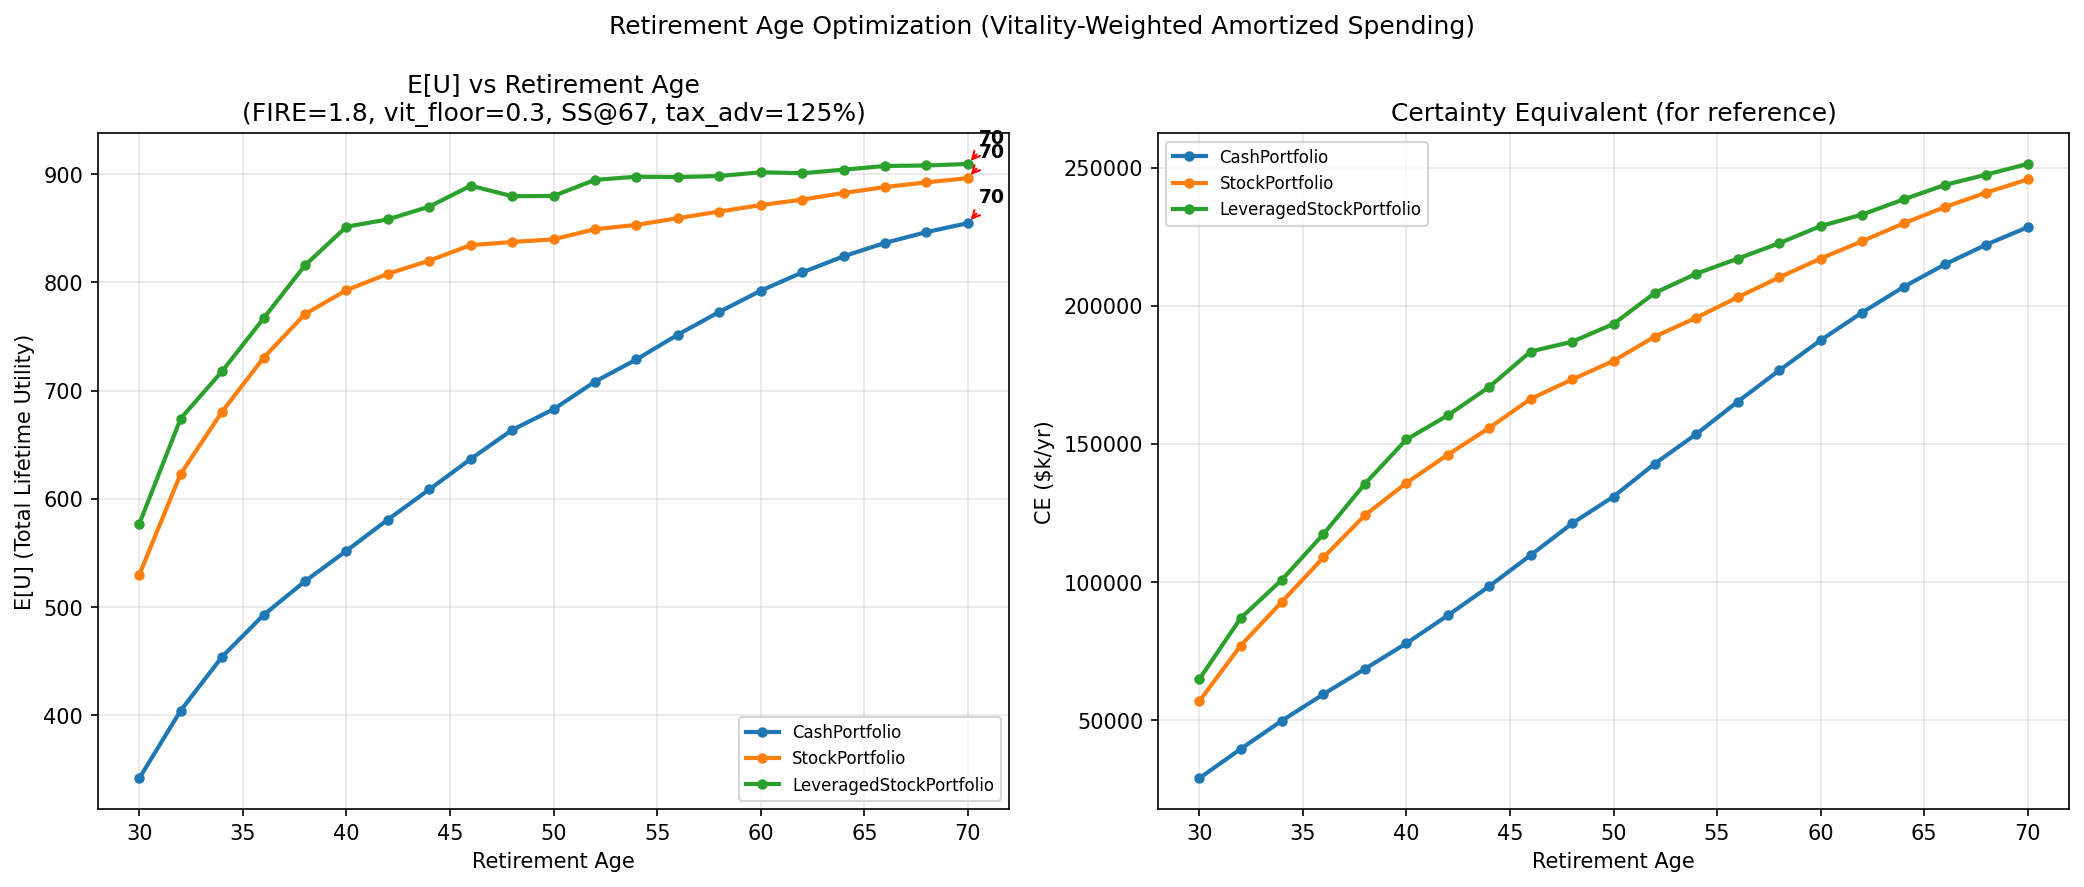
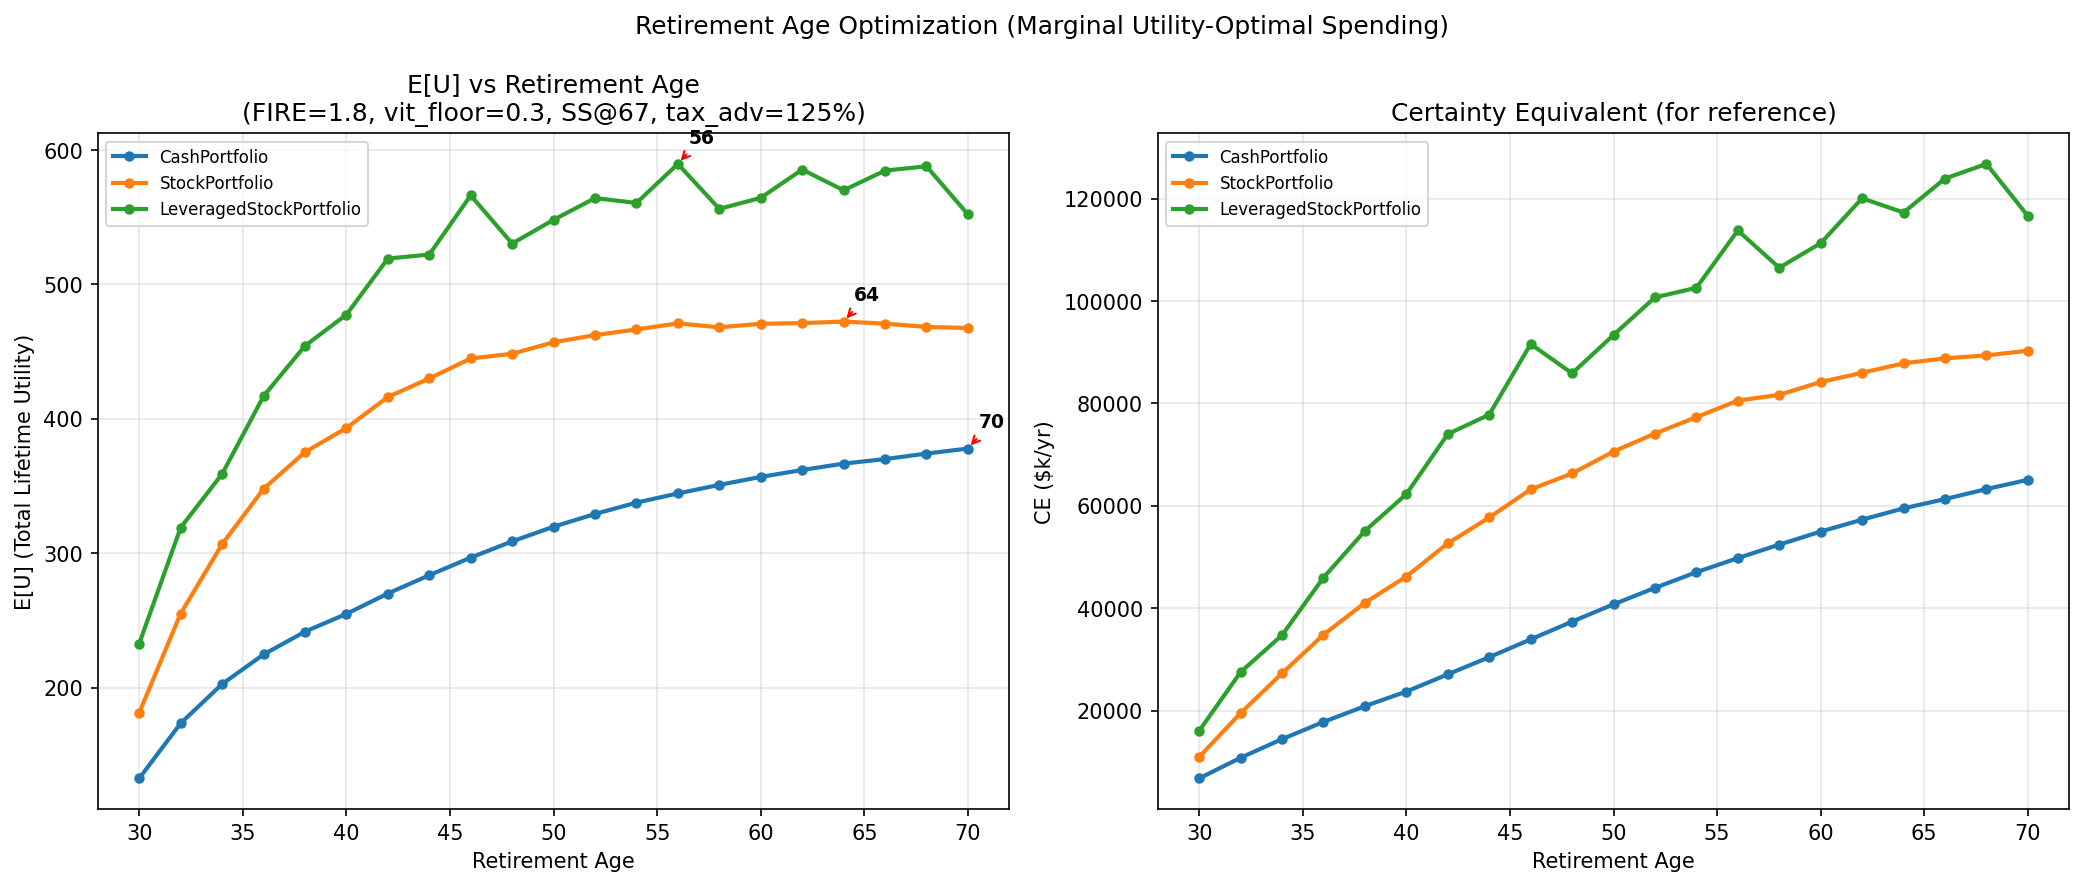
Replace vitality-weighted spending with Euler equation MU-optimal allocation
Add MarginalUtilitySpending: derives consumption from ∂U/∂c, equalizing
marginal utility per PV-dollar across ages. Uses c_t ∝ (w_t/d^t)^γ where
γ = 1/(1-α) is the EIS, with log-space computation for numerical stability.

Key differences from VitalityAmortizedSpending:
- Includes β (time preference) and FIRE multiplier in allocation weights
- Nonlinear amplification via γ ≈ 2.86 (for α=0.65)
- Spending rule is now consistent with the utility scorer

Regenerate all advice charts with the new spending strategy.

https://claude.ai/code/session_01236Zney1KiVQQhg5QPK66n

diff --git a/generate_advice.py b/generate_advice.py
@@ -15,6 +15,7 @@ from simulator import run_simulation
 from spending import (
     AmortizedSpending,
     FixedSpending,
+    MarginalUtilitySpending,
     VitalityAmortizedSpending,
 )
 from sweeps import (
@@ -63,7 +64,7 @@ def fmt_u(u: float) -> str:
 # -----------------------------------------------------------------------
 print("\n[1/7] Running retirement age sweep (300 sims/age)...")
 
-spending_rule = VitalityAmortizedSpending()
+spending_rule = MarginalUtilitySpending()
 ret_results = run_retirement_sweep(config, spending_rule, n_simulations=300)
 
 # Find optimal age per portfolio (by max mean utility — monotonic with CE)
@@ -105,7 +106,7 @@ ax2.set_title('Certainty Equivalent (for reference)')
 ax2.legend(fontsize=8)
 ax2.grid(True, alpha=0.3)
 
-fig.suptitle('Retirement Age Optimization (Vitality-Weighted Amortized Spending)')
+fig.suptitle('Retirement Age Optimization (Marginal Utility-Optimal Spending)')
 plt.tight_layout()
 fig.savefig(os.path.join(ASSETS, '1_retirement_sweep.png'), dpi=150, bbox_inches='tight')
 plt.close(fig)
@@ -122,7 +123,7 @@ for name, data in ret_results.items():
 # -----------------------------------------------------------------------
 print("\n[2/7] Running leverage sweep (300 sims/level)...")
 
-lev_spending = VitalityAmortizedSpending()
+lev_spending = MarginalUtilitySpending()
 scorer = CRRAUtility.from_config(config)
 lev_results = run_leverage_sweep(config, lev_spending, scorer,
                                   leverage_range=[1.0, 1.25, 1.5, 1.75, 2.0, 2.25, 2.5, 2.75, 3.0, 3.5, 4.0],
@@ -230,14 +231,14 @@ sweep_2d = run_2d_sweep(
     config,
     'retirement_age', [float(a) for a in range(30, 71, 10)],
     'leverage_ratio', list(np.linspace(1.0, 4.0, 7)),
-    spending_rule=VitalityAmortizedSpending(),
+    spending_rule=MarginalUtilitySpending(),
     n_simulations=20,
     metric='mean_utility',
     portfolio_idx=2,
 )
 
 print("\n  Running Adam optimizer...")
-adam_path = adam_optimize(config, VitalityAmortizedSpending(), n_sims=100, steps=25)
+adam_path = adam_optimize(config, MarginalUtilitySpending(), n_sims=100, steps=25)
 
 X, Y = np.meshgrid(sweep_2d['param2_range'], sweep_2d['param1_range'])
 grid = sweep_2d['grid']
@@ -327,7 +328,7 @@ print(f"\n  Adam optimum: retire@{int(round(final_ret))}, leverage={final_lev:.1
 # 4. Monte Carlo at optimal retirement age — all portfolios
 # -----------------------------------------------------------------------
 opt_retire = ret_results.get('LeveragedStockPortfolio', {}).get('optimal_age', 42)
-mc_spending = VitalityAmortizedSpending()
+mc_spending = MarginalUtilitySpending()
 
 print(f"\n[4/7] Monte Carlo at retire@{opt_retire} (300 sims)...")
 
@@ -374,7 +375,7 @@ for col, (name, data) in enumerate(show_portfolios.items()):
     if col == 0:
         ax_sp.set_ylabel('Annual Spending ($k/yr)')
 
-fig.suptitle(f'Monte Carlo: Retire@{opt_retire}, Vitality-Weighted Spending', fontsize=13)
+fig.suptitle(f'Monte Carlo: Retire@{opt_retire}, MU-Optimal Spending', fontsize=13)
 plt.tight_layout()
 fig.savefig(os.path.join(ASSETS, '4_monte_carlo.png'), dpi=150, bbox_inches='tight')
 plt.close(fig)
@@ -484,7 +485,7 @@ plt.close(fig)
 print("\n[7/7] Running E[U] distributions across leverage levels (300 sims each)...")
 
 pdf_leverages = [1.0, 1.5, 2.0, 3.0, 4.0]
-pdf_spending = VitalityAmortizedSpending()
+pdf_spending = MarginalUtilitySpending()
 pdf_seeds = _generate_seeds(300)
 
 leverage_utilities = {}

diff --git a/spending.py b/spending.py
@@ -3,6 +3,7 @@
 
 from __future__ import annotations
 
+import math
 from abc import ABC, abstractmethod
 from dataclasses import dataclass
 from typing import List, Tuple
@@ -186,3 +187,74 @@ class VitalityAmortizedSpending(SpendingRule):
             regular = max(0.0, total * v_now / v_annuity)
 
         return regular + ctx.one_time_expense
+
+
+class MarginalUtilitySpending(SpendingRule):
+    """Euler equation-optimal spending: equalize marginal utility per PV-dollar across ages.
+
+    For CRRA utility V = Σ w_t · c_t^α, the derivative wrt consumption is:
+
+        ∂V/∂c_t = w_t · α · c_t^(α-1)
+
+    where w_t = β^t · vitality(age_t) · fire_multiplier_t.
+
+    The budget constraint discounts spending at the financial rate d^t.
+    Optimal allocation equalizes marginal utility per present-value dollar:
+
+        ∂V/∂c_t / d^t = λ    for all t
+
+    Solving: c_t ∝ (w_t / d^t)^γ  where γ = 1/(1-α) is the elasticity of
+    intertemporal substitution (EIS).
+
+    Compared to VitalityAmortizedSpending (c ∝ vitality), this:
+    1. Includes time preference (β) and FIRE multiplier in allocation weights
+    2. Nonlinearly amplifies weight differences via γ (higher CRRA curvature
+       means more aggressive reallocation toward high-utility years)
+    """
+
+    def compute(self, ctx: YearContext) -> float:
+        remaining = _planning_remaining(ctx)
+        total, d = _compute_total_resources(ctx)
+        config = ctx.config
+
+        alpha = config.utility_power
+        # γ = EIS = 1/(1-α); cap to avoid numerical blow-up near α ≈ 1
+        gamma = min(1.0 / (1.0 - alpha), 50.0) if alpha < 1.0 else 50.0
+        beta = 1.0 / (1.0 + config.discount_rate)
+        floor = config.spending_floor
+
+        # --- Compute optimal consumption weights in log-space ---
+        # w_s = β^s · v(age+s) · fire_s  (utility weight for year s)
+        # Optimal: c_s ∝ (w_s / d^s)^γ   (Euler equation solution)
+        # log(φ_s) = γ · [s·ln(β/d) + ln(v_s) + ln(fire_s)]
+        ln_beta_over_d = math.log(beta / d) if d > 0 else 0.0
+
+        log_phi = []
+        for s in range(remaining):
+            future_age = ctx.age + s
+            v = vitality_at_age(future_age, config)
+            fire = config.fire_multiplier if future_age >= ctx.retirement_age else 1.0
+            lp = gamma * (s * ln_beta_over_d + math.log(v) + math.log(fire))
+            log_phi.append(lp)
+
+        # Normalize to prevent overflow before exponentiating
+        max_log = max(log_phi)
+        phi = [math.exp(lp - max_log) for lp in log_phi]
+
+        # --- Budget constraint: K · Σ φ_s · d^s = excess ---
+        if floor > 0:
+            flat_annuity = (1.0 - d ** remaining) / (1.0 - d)
+            pv_floor = floor * flat_annuity
+            excess = max(0.0, total - pv_floor)
+        else:
+            excess = max(0.0, total)
+
+        weighted_sum = sum(phi[s] * (d ** s) for s in range(remaining))
+
+        if weighted_sum <= 0:
+            return max(floor, 0.0) + ctx.one_time_expense
+
+        K = excess / weighted_sum
+        current_spending = K * phi[0] + floor
+
+        return max(current_spending, floor) + ctx.one_time_expense

diff --git a/sweeps.py b/sweeps.py
@@ -14,6 +14,7 @@ from simulator import run_simulation
 from spending import (
     AmortizedSpending,
     FixedSpending,
+    MarginalUtilitySpending,
     SpendingRule,
     VitalityAmortizedSpending,
 )
@@ -261,7 +262,7 @@ def run_retirement_sweep(
     """
     if spending_rule is None:
         if config.vitality_floor < 1.0:
-            spending_rule = VitalityAmortizedSpending()
+            spending_rule = MarginalUtilitySpending()
         else:
             spending_rule = AmortizedSpending()
     if utility_scorer_factory is None:
@@ -379,7 +380,7 @@ def run_2d_sweep(
     """Sweep two parameters, return 2D grid of metric values."""
     if spending_rule is None:
         if config.vitality_floor < 1.0:
-            spending_rule = VitalityAmortizedSpending()
+            spending_rule = MarginalUtilitySpending()
         else:
             spending_rule = AmortizedSpending()
 

diff --git a/retirement_math.py b/retirement_math.py
@@ -19,6 +19,7 @@ from simulator import run_simulation
 from spending import (
     AmortizedSpending,
     FixedSpending,
+    MarginalUtilitySpending,
     VitalityAmortizedSpending,
 )
 from sweeps import (
@@ -203,7 +204,7 @@ def main() -> None:
     # Build spending rule (Decision Model)
     if args.amortized or args.retirement_sweep > 0 or args.sweep_2d:
         if config.vitality_floor < 1.0:
-            spending_rule = VitalityAmortizedSpending()
+            spending_rule = MarginalUtilitySpending()
         else:
             spending_rule = AmortizedSpending()
     else:

diff --git a/CLAUDE.md b/CLAUDE.md
@@ -29,6 +29,12 @@ No formal test suite exists. Validate changes with:
 python retirement_math.py --retirement-sweep 200
 ```
 
+**Important:** In headless environments (CI, SSH, containers), set `MPLBACKEND=Agg` before running any script that imports matplotlib:
+```bash
+MPLBACKEND=Agg python retirement_math.py --retirement-sweep 200
+MPLBACKEND=Agg python generate_advice.py
+```
+
 ## Architecture
 
 Modular flat-file layout with three composable layers. All files live in the project root (no package directory — `python retirement_math.py` works directly).
@@ -40,7 +46,7 @@ Modular flat-file layout with three composable layers. All files live in the pro
 | `retirement_math.py` | CLI entry point: `parse_args()` + `main()` | ~200 |
 | `config.py` | `SimulationConfig`, `SimulationResult`, `post_tax`, `format_money` | ~170 |
 | `models.py` | Vitality, SS benefit, Vasicek yields, Kelly, Gompertz mortality, Bayesian sampling | ~110 |
-| `spending.py` | `YearContext`, `SpendingRule` ABC, `FixedSpending`, `AmortizedSpending`, `VitalityAmortizedSpending` | ~170 |
+| `spending.py` | `YearContext`, `SpendingRule` ABC, `FixedSpending`, `AmortizedSpending`, `VitalityAmortizedSpending`, `MarginalUtilitySpending` | ~230 |
 | `utility.py` | `UtilityScorer` ABC, `CRRAUtility` | ~80 |
 | `simulator.py` | `run_simulation`, `_build_income_schedule`, `_generate_year_shocks` | ~200 |
 | `sweeps.py` | `run_monte_carlo`, `run_leverage_sweep`, `run_retirement_sweep`, `run_2d_sweep`, CRN/antithetic helpers | ~400 |
@@ -76,7 +82,8 @@ retirement_math.py   (imports all — thin CLI layer)
 2. **Decision Model** (`spending.py`) — Spending rules determining annual consumption:
    - `FixedSpending` — base expenses + lifestyle inflation
    - `AmortizedSpending` — lifecycle annuity over remaining life
-   - `VitalityAmortizedSpending` — vitality-weighted annuity that front-loads high-energy years, with a spending floor ($45k) reserving resources for old age
+   - `VitalityAmortizedSpending` — vitality-weighted annuity (legacy heuristic, c ∝ vitality)
+   - `MarginalUtilitySpending` — **default**: Euler equation-optimal allocation that equalizes marginal utility per PV-dollar across ages. Uses `c_t ∝ (w_t / d^t)^γ` where `w_t = β^t · vitality · fire_mult` and `γ = 1/(1-α)` is the EIS. Spending floor reserves PV of minimum spending, then optimally allocates the excess.
 
 3. **Utility Model** (`utility.py`) — CRRA power utility: `V = Σ β^t · vitality(age) · fire_mult · c^α`, scored via `CRRAUtility`. Certainty equivalent converts stochastic utility into constant annual spending.
 
@@ -95,7 +102,7 @@ retirement_math.py   (imports all — thin CLI layer)
 
 - **Vitality**: `v(age) = floor + (1-floor) * exp(-((age-peak)/half_life)^2)` — Gaussian health decay from peak (~30), floor 0.3
 - **FIRE Multiplier**: Extra utility during retirement (default 1.8x) — higher values pull optimal retirement earlier
-- **Spending Floor**: Reserves PV of minimum annual spending ($30k) before front-loading excess via vitality weighting
+- **Spending Floor**: Reserves PV of minimum annual spending ($30k) before optimally allocating excess via marginal utility equalization
 - **Retirement Tax Advantage**: 1.25x multiplier reflecting LTCG/Roth (~15%) vs earned income (~38%) tax rates
 - **Kelly Optimal Leverage**: `L* = (ERP - spread) / σ²`
 - **Margin Calls**: `LeveragedStockPortfolio` triggers forced liquidation when equity drops below `maintenance_margin` (default 25%), reducing leverage for a 2-year cooldown

diff --git a/README.md b/README.md
@@ -11,7 +11,7 @@ Heavily inspired by the principles of Ben Felix.
 The simulator has three composable layers:
 
 1. **Financial Model** — stochastic market simulation (Vasicek bond yields, equity returns with fat tails, stochastic volatility, stock-bond correlation)
-2. **Decision Model** — spending rules that determine how much to consume each year (fixed, lifecycle amortized, or vitality-weighted amortized)
+2. **Decision Model** — spending rules that determine how much to consume each year (fixed, lifecycle amortized, or marginal utility-optimal)
 3. **Utility Model** — CRRA power utility with FIRE multiplier and vitality weighting, used to score and compare outcomes
 
 ## Example Output
@@ -74,7 +74,7 @@ Retirement years are worth more than working years (freedom, autonomy). The FIRE
 SS benefits are computed from the full formula (AIME over top 35 earning years, PIA bend points, FRA adjustment). **FIRE reduces SS** — retiring after 12 years of work yields ~$18k/yr vs ~$32k/yr for 35+ years. The spending rules include PV of future SS when planning.
 
 ### Spending Floor
-The vitality-weighted rule can front-load spending aggressively, leaving little for old age (especially with leveraged portfolios). The spending floor reserves resources for a guaranteed minimum: `spending = floor + excess * v(age) / v_annuity`. Default $30k/yr.
+The marginal utility-optimal rule can front-load spending aggressively toward high-utility years. The spending floor reserves PV of a guaranteed minimum, then the excess is allocated via Euler equation optimization: `c_t ∝ (w_t / d^t)^γ` where `γ = 1/(1-α)`. Default floor $30k/yr.
 
 ### Retirement Tax Advantage
 Retirement withdrawals (LTCG at ~15%, Roth at 0%) are taxed much less than earned income (~38%). The `retirement_tax_advantage` multiplier (default 1.25x) inflates the real purchasing power of portfolio wealth after retirement.
@@ -97,7 +97,7 @@ Runs N simulations, plots net worth trajectories with confidence bands for each 
 ```bash
 python retirement_math.py --retirement-sweep 500
 ```
-The main optimization mode. Sweeps retirement ages from 30-70, runs N sims per age, and plots certainty-equivalent (CE) spending vs retirement age. Automatically uses vitality-weighted amortized spending. Shows the optimal retirement age per portfolio type.
+The main optimization mode. Sweeps retirement ages from 30-70, runs N sims per age, and plots certainty-equivalent (CE) spending vs retirement age. Automatically uses marginal utility-optimal spending. Shows the optimal retirement age per portfolio type.
 
 ### Leverage Sweep
 ```bash
@@ -295,7 +295,7 @@ All flat files in the project root (no package — `python retirement_math.py` w
 | `retirement_math.py` | CLI entry point (`parse_args` + `main`) |
 | `config.py` | `SimulationConfig`, `SimulationResult`, tax/formatting helpers |
 | `models.py` | Vitality, Social Security, Vasicek yields, Kelly, Gompertz, Bayesian sampling |
-| `spending.py` | `SpendingRule` ABC, `FixedSpending`, `AmortizedSpending`, `VitalityAmortizedSpending` |
+| `spending.py` | `SpendingRule` ABC, `FixedSpending`, `AmortizedSpending`, `VitalityAmortizedSpending`, `MarginalUtilitySpending` |
 | `utility.py` | `UtilityScorer` ABC, `CRRAUtility` |
 | `simulator.py` | `run_simulation` — the core financial model |
 | `sweeps.py` | Monte Carlo, leverage sweep, retirement sweep, 2D sweep |
